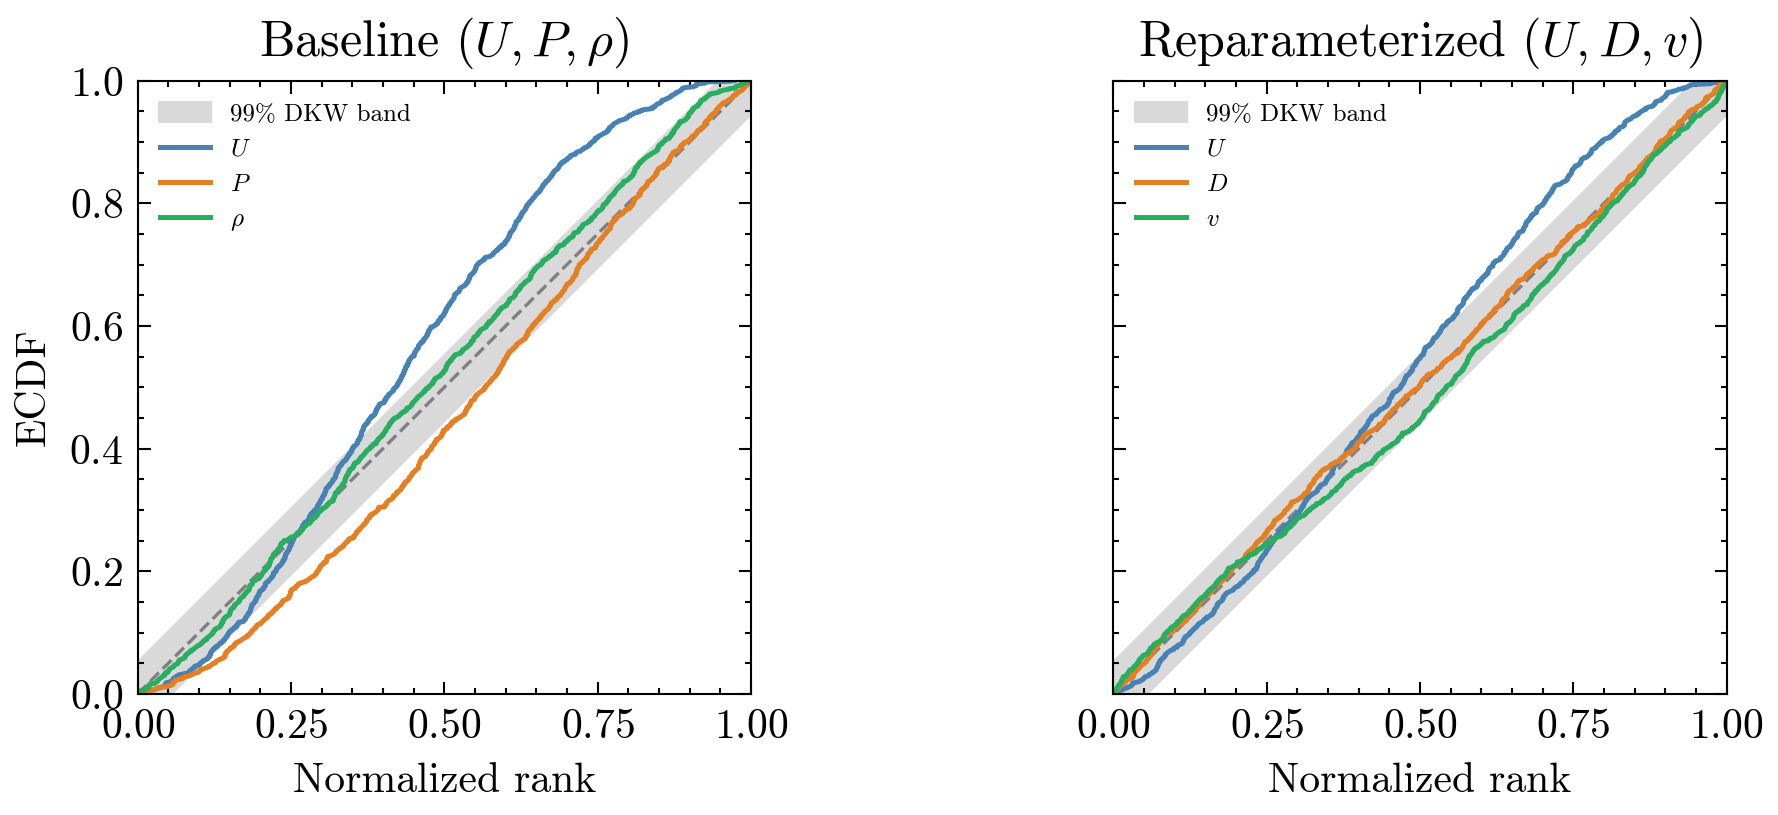
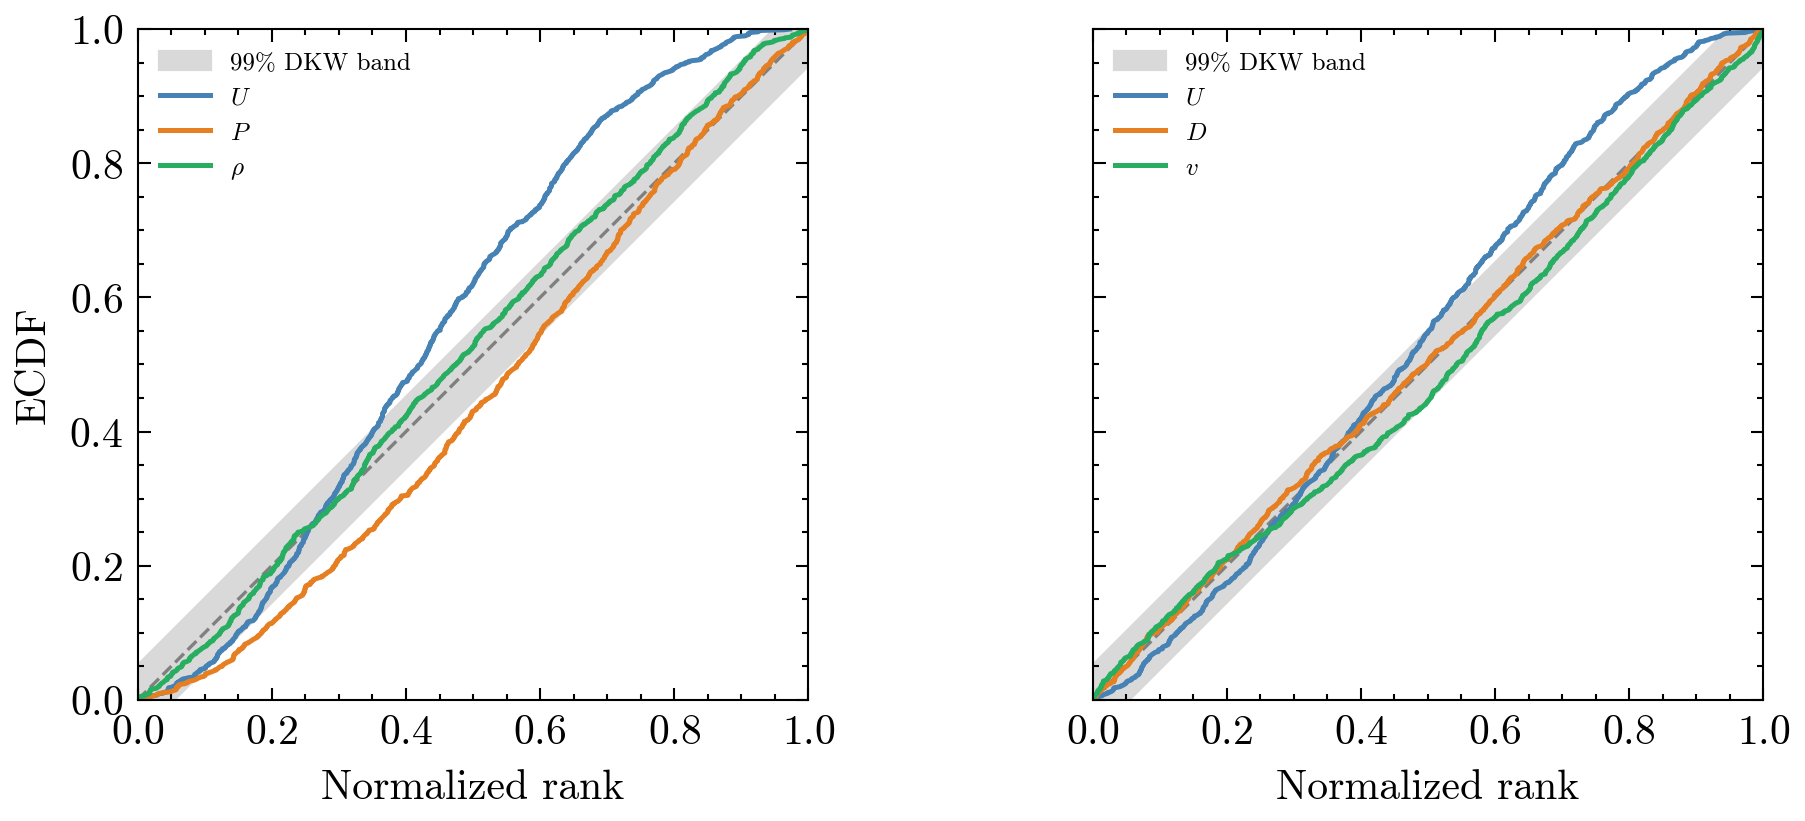
Remove panel titles and reduce whitespace in SBC reparam comparison plot

diff --git a/results/paper_figures.py b/results/paper_figures.py
@@ -596,12 +596,11 @@ def make_sbc_reparam_plot(output_dir: Path, fmt: str):
         ax.set_xlim(0, 1)
         ax.set_ylim(0, 1)
         ax.set_aspect("equal")
-        ax.set_title(title)
         ax.legend(fontsize=6, loc="upper left")
 
     ax_base.set_ylabel("ECDF")
 
-    fig.tight_layout(w_pad=1.5)
+    fig.tight_layout(w_pad=0.5)
     outfile = output_dir / f"sbc_model_A_reparam_comparison.{fmt}"
     fig.savefig(outfile, dpi=DPI, bbox_inches="tight")
     plt.close(fig)
